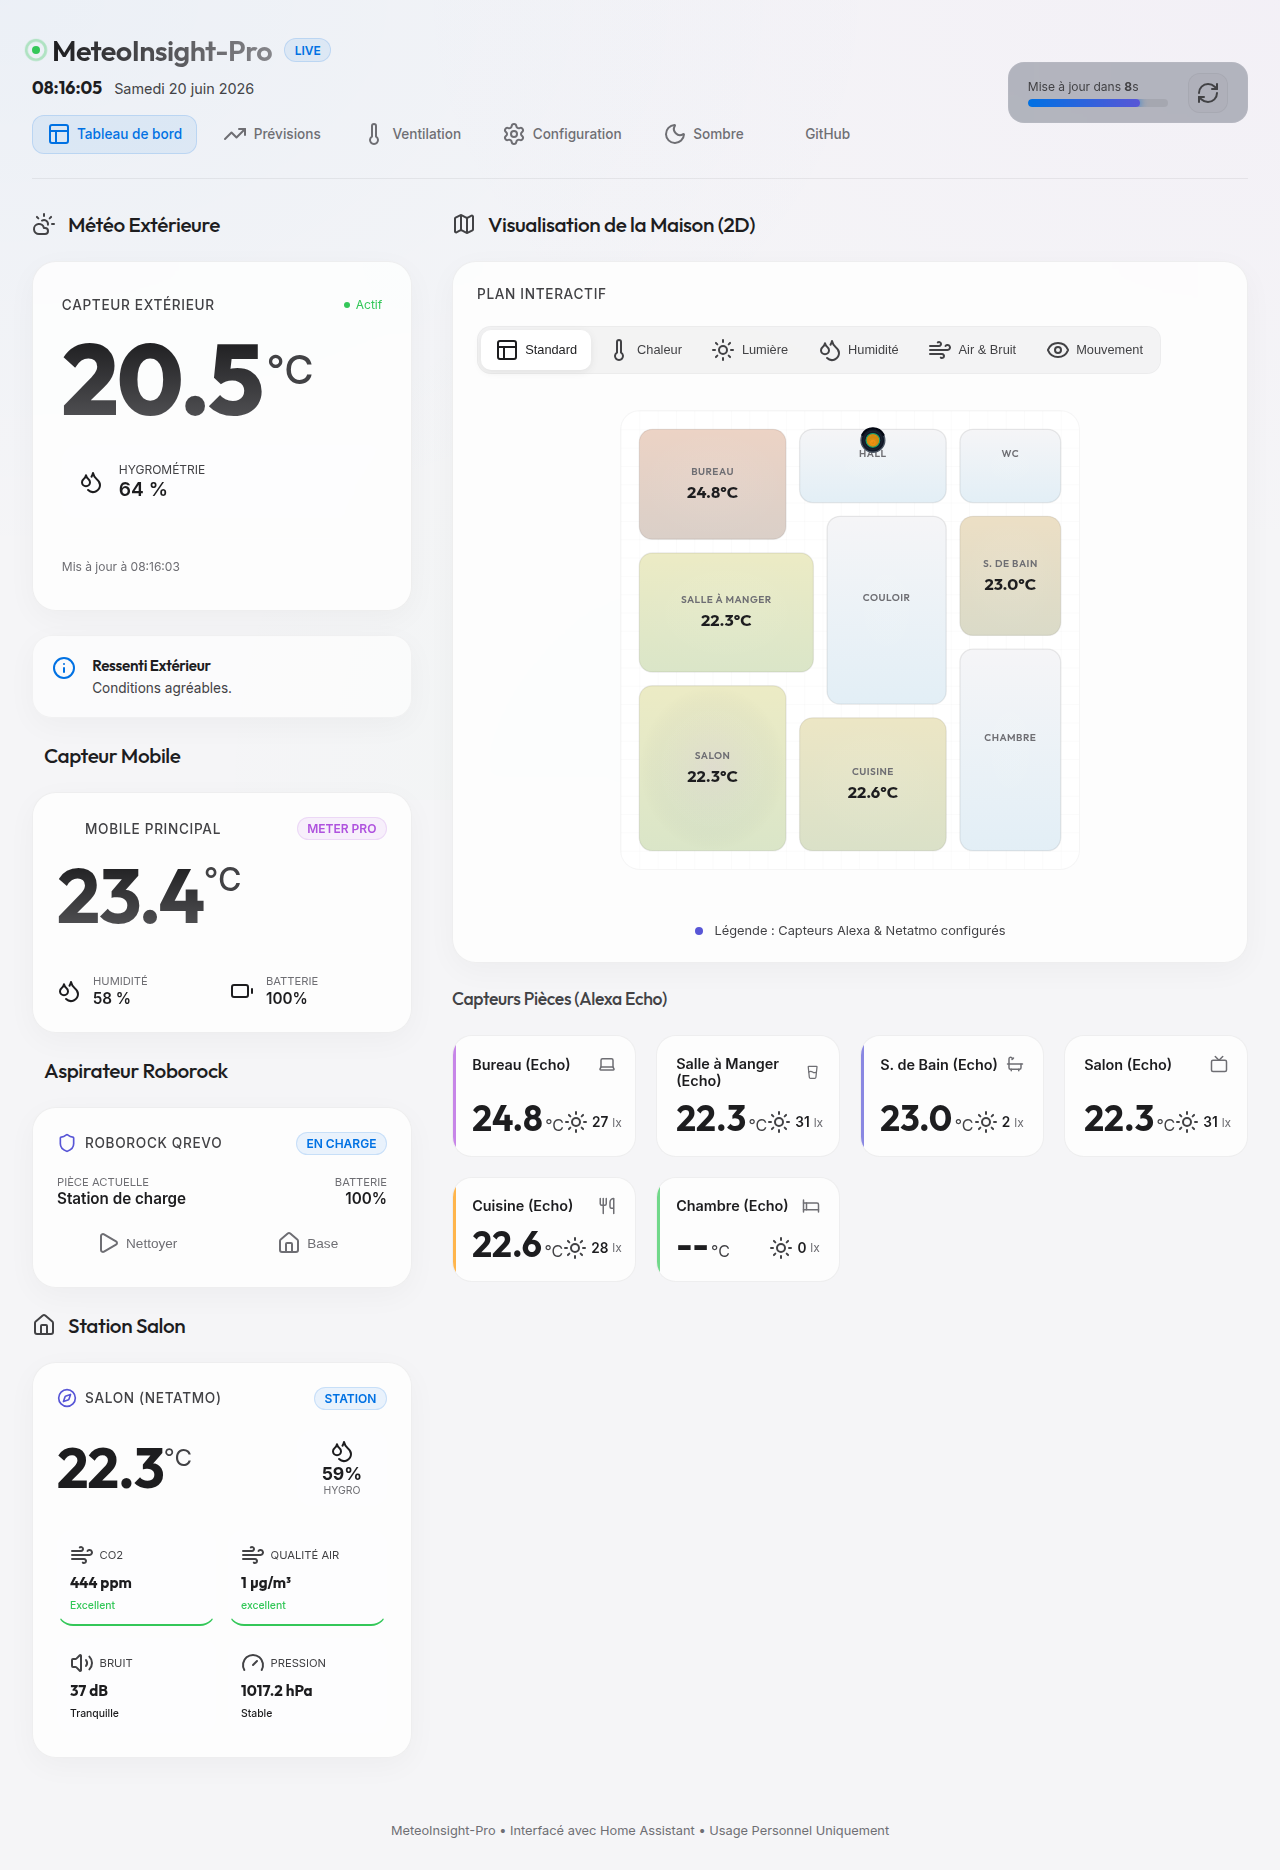
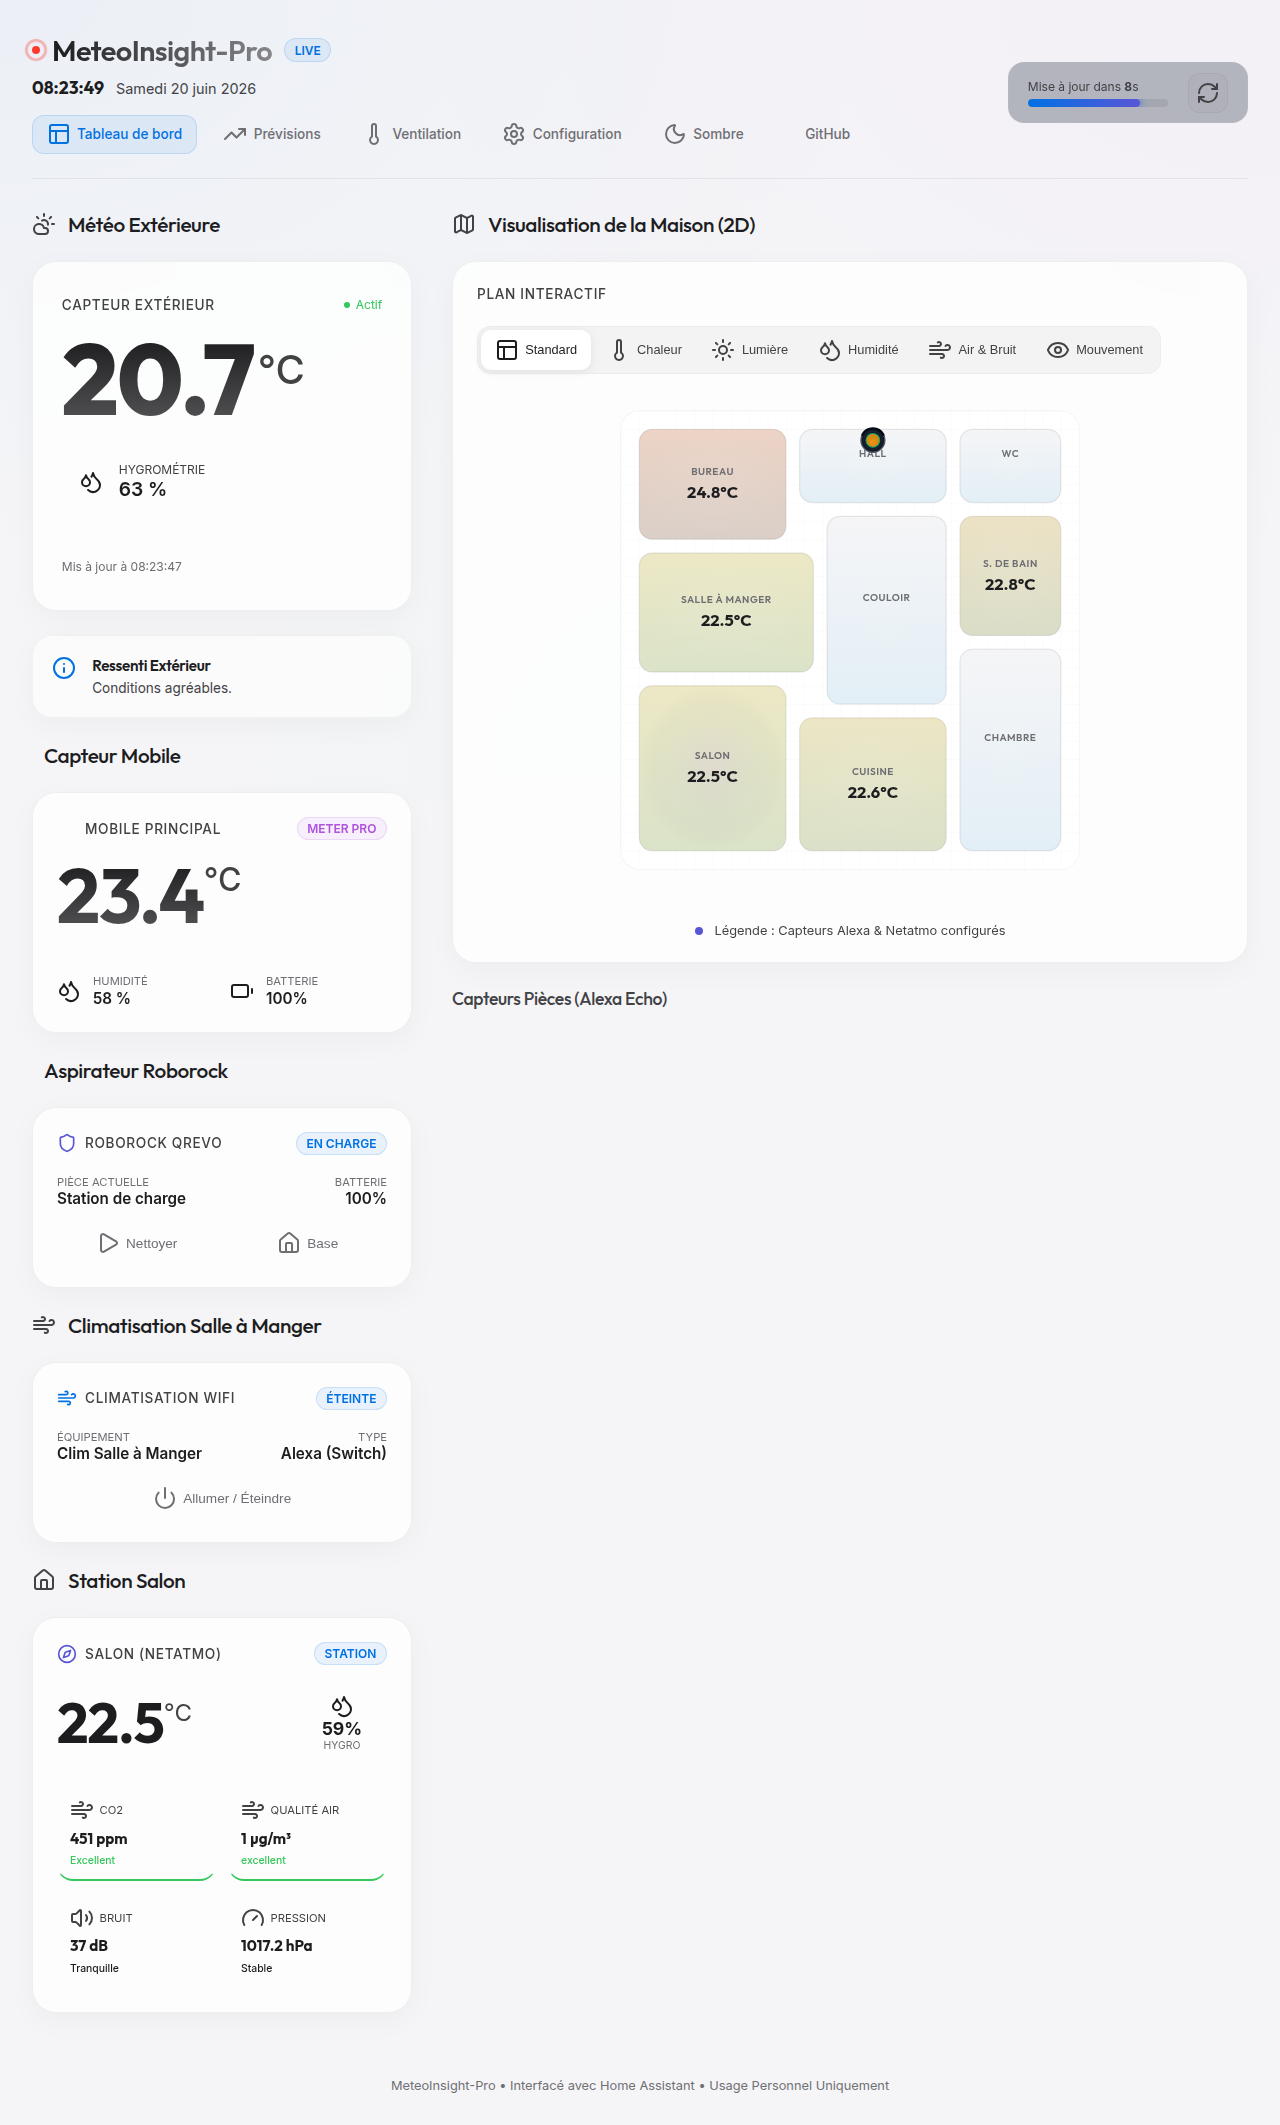
feat: add dining room AC control card, SVG floor plan indicator, and toggle API integration

diff --git a/public/app.js b/public/app.js
@@ -61,7 +61,11 @@ const elements = {
   vacuumRoom: document.getElementById('vacuum-room'),
   vacuumBattery: document.getElementById('vacuum-battery'),
   btnVacuumStart: document.getElementById('btn-vacuum-start'),
-  btnVacuumDock: document.getElementById('btn-vacuum-dock')
+  btnVacuumDock: document.getElementById('btn-vacuum-dock'),
+
+  // AC Card Controls
+  acBadgeState: document.getElementById('ac-badge-state'),
+  btnAcToggle: document.getElementById('btn-ac-toggle')
 };
 
 // Map Alexa Rooms to Lucide Icons
@@ -96,6 +100,9 @@ function init() {
 
   // Set up vacuum controls event listeners
   setupVacuumControls();
+
+  // Set up AC controls event listeners
+  setupACControls();
 }
 
 // Fetch configuration from server to draw SVG floor plan dynamically
@@ -176,6 +183,35 @@ function drawRoomsSVG(rooms) {
         soundG.appendChild(circle);
       }
       roomG.appendChild(soundG);
+    }
+
+    // Salle à manger features like ac indicator
+    if (room.id === 'salle_a_manger') {
+      const acIndicator = document.createElementNS("http://www.w3.org/2000/svg", "g");
+      acIndicator.id = 'svg-ac-indicator';
+      acIndicator.setAttribute('class', 'ac-indicator-container');
+      acIndicator.style.display = 'none'; // hidden by default
+
+      // Small background circle
+      const circ = document.createElementNS("http://www.w3.org/2000/svg", "circle");
+      circ.setAttribute('cx', room.x + room.w - 25);
+      circ.setAttribute('cy', room.y + 25);
+      circ.setAttribute('r', 12);
+      circ.setAttribute('fill', 'rgba(59, 130, 246, 0.15)');
+      circ.setAttribute('stroke', 'rgba(59, 130, 246, 0.4)');
+      circ.setAttribute('stroke-width', '1.5');
+      acIndicator.appendChild(circ);
+
+      // Simple wind symbol (3 lines) in SVG
+      const path = document.createElementNS("http://www.w3.org/2000/svg", "path");
+      path.setAttribute('d', `M ${room.x + room.w - 30} ${room.y + 22} h 8 M ${room.x + room.w - 32} ${room.y + 25} h 12 M ${room.x + room.w - 29} ${room.y + 28} h 7`);
+      path.setAttribute('stroke', 'var(--color-primary)');
+      path.setAttribute('stroke-width', '1.5');
+      path.setAttribute('stroke-linecap', 'round');
+      path.setAttribute('class', 'ac-wind-lines');
+      acIndicator.appendChild(path);
+
+      roomG.appendChild(acIndicator);
     }
 
     const addText = (cls, dy, text) => {
@@ -797,6 +833,9 @@ function updateRobovac(roborock) {
     robovacGroup.insertBefore(titleEl, robovacGroup.firstChild);
   }
   titleEl.textContent = `Roborock Qrevo : ${label}${roomInfo}${batteryInfo}`;
+
+  // 8. CLIMATISATION CARD & SVG INDICATOR
+  updateACBadgeState(data.dining_ac?.state);
 }
 
 // Setup Vacuum button listeners for POST requests to Node server
@@ -839,6 +878,59 @@ function setupVacuumControls() {
         elements.btnVacuumDock.disabled = false;
       }
     });
+  }
+}
+
+// Setup AC button listeners
+function setupACControls() {
+  if (elements.btnAcToggle) {
+    elements.btnAcToggle.addEventListener('click', async () => {
+      elements.btnAcToggle.disabled = true;
+      try {
+        const res = await fetch('api/clim/toggle', {
+          method: 'POST',
+          headers: { 'Content-Type': 'application/json' }
+        });
+        if (!res.ok) throw new Error('Failed to toggle AC');
+        const data = await res.json();
+        // Update state immediately
+        updateACBadgeState(data.state);
+        setTimeout(fetchWeatherData, 1000);
+      } catch (err) {
+        console.error(err);
+        alert('Erreur lors du pilotage de la climatisation');
+      } finally {
+        elements.btnAcToggle.disabled = false;
+      }
+    });
+  }
+}
+
+function updateACBadgeState(state) {
+  if (!elements.acBadgeState) return;
+  const isOn = state === 'on';
+  elements.acBadgeState.textContent = isOn ? 'Allumée' : 'Éteinte';
+  
+  if (isOn) {
+    elements.acBadgeState.style.background = 'rgba(59, 130, 246, 0.15)';
+    elements.acBadgeState.style.borderColor = 'rgba(59, 130, 246, 0.3)';
+    elements.acBadgeState.style.color = 'var(--color-primary)';
+  } else {
+    elements.acBadgeState.style.background = 'rgba(107, 114, 128, 0.15)';
+    elements.acBadgeState.style.borderColor = 'rgba(107, 114, 128, 0.3)';
+    elements.acBadgeState.style.color = '#6b7280';
+  }
+
+  // Update SVG indicator class as well
+  const acSvg = document.getElementById('svg-ac-indicator');
+  if (acSvg) {
+    if (isOn) {
+      acSvg.style.display = 'block';
+      acSvg.classList.add('ac-active');
+    } else {
+      acSvg.style.display = 'none';
+      acSvg.classList.remove('ac-active');
+    }
   }
 }
 

diff --git a/server.js b/server.js
@@ -177,6 +177,9 @@ app.get('/api/weather', async (req, res) => {
         battery: parseState(stateMap[config.entities.roborock_battery]),
         room: stateMap[config.entities.roborock_room] ? stateMap[config.entities.roborock_room].state : null,
         status: stateMap[config.entities.roborock_status] ? stateMap[config.entities.roborock_status].state : null
+      },
+      dining_ac: {
+        state: stateMap[config.entities.dining_ac] ? stateMap[config.entities.dining_ac].state : (memoryCache.dining_ac_state || 'off')
       }
     };
 
@@ -1304,6 +1307,62 @@ app.post('/api/vacuum/action', express.json(), async (req, res) => {
   } catch (error) {
     console.error('Error triggering vacuum action:', error);
     res.status(500).json({ error: error.message || 'Failed to trigger vacuum action' });
+  }
+});
+
+// Endpoint to toggle or trigger climatisation action
+app.post('/api/clim/toggle', express.json(), async (req, res) => {
+  try {
+    const entityId = config.entities.dining_ac || 'switch.clim';
+    
+    // Check if the entity exists in HA
+    const states = await fetchHAStates();
+    const hasHAEntity = states.some(s => s.entity_id === entityId);
+    
+    let newState = 'off';
+    
+    if (hasHAEntity) {
+      // Toggle it in Home Assistant
+      const url = `${config.HA_URL}/api/services/homeassistant/toggle`;
+      const response = await fetch(url, {
+        method: 'POST',
+        headers: {
+          'Authorization': `Bearer ${config.HA_TOKEN}`,
+          'Content-Type': 'application/json'
+        },
+        body: JSON.stringify({
+          entity_id: entityId
+        })
+      });
+      
+      if (!response.ok) {
+        throw new Error(`Home Assistant API returned status code ${response.status}`);
+      }
+      
+      // Fetch the updated state
+      const stateUrl = `${config.HA_URL}/api/states/${entityId}`;
+      const stateRes = await fetch(stateUrl, {
+        headers: {
+          'Authorization': `Bearer ${config.HA_TOKEN}`,
+          'Content-Type': 'application/json'
+        }
+      });
+      if (stateRes.ok) {
+        const stateData = await stateRes.json();
+        newState = stateData.state;
+        memoryCache.dining_ac_state = newState;
+      }
+    } else {
+      // Toggle virtual state in memory cache
+      newState = (memoryCache.dining_ac_state === 'on') ? 'off' : 'on';
+      memoryCache.dining_ac_state = newState;
+    }
+    
+    memoryCache.weatherTime = 0; // force refresh
+    res.json({ success: true, state: newState, isVirtual: !hasHAEntity });
+  } catch (error) {
+    console.error('Error toggling AC:', error);
+    res.status(500).json({ error: error.message || 'Failed to toggle AC' });
   }
 });
 

diff --git a/public/index.html b/public/index.html
@@ -189,6 +189,42 @@
           </div>
         </div>
 
+        <!-- Climatisation Dining Room Control Card -->
+        <div class="section-title">
+          <i data-lucide="wind"></i>
+          <h2>Climatisation Salle à Manger</h2>
+        </div>
+
+        <div class="card ac-card" id="card-ac">
+          <div class="card-bg-gradient" style="background: radial-gradient(circle at 100% 100%, rgba(59, 130, 246, 0.08) 0%, transparent 60%);"></div>
+          <div class="card-header">
+            <div class="header-title-group">
+              <i data-lucide="wind" class="title-icon" style="color: var(--color-primary);"></i>
+              <span class="sensor-source">Climatisation WiFi</span>
+            </div>
+            <span class="badge" id="ac-badge-state" style="background: rgba(107, 114, 128, 0.15); border-color: rgba(107, 114, 128, 0.3); color: #6b7280;">Éteinte</span>
+          </div>
+          
+          <div class="card-body">
+            <div class="ac-status-details" style="display: flex; justify-content: space-between; margin-bottom: 1rem; font-size: 0.85rem;">
+              <div>
+                <span class="sub-label">Équipement</span>
+                <span class="sub-value">Clim Salle à Manger</span>
+              </div>
+              <div style="text-align: right;">
+                <span class="sub-label">Type</span>
+                <span class="sub-value">Alexa (Switch)</span>
+              </div>
+            </div>
+            
+            <div class="ac-actions" style="display: flex; gap: 0.75rem; margin-top: 1rem;">
+              <button class="nav-link" id="btn-ac-toggle" style="flex: 1; justify-content: center; cursor: pointer; background: rgba(59, 130, 246, 0.15); border-color: rgba(59, 130, 246, 0.3); color: var(--color-primary);">
+                <i data-lucide="power"></i> Allumer / Éteindre
+              </button>
+            </div>
+          </div>
+        </div>
+
         <!-- Netatmo Salon Details Card -->
         <div class="section-title">
           <i data-lucide="home"></i>

diff --git a/public/style.css b/public/style.css
@@ -2552,6 +2552,39 @@ body.light-theme .badge-netatmo {
   color: var(--color-primary) !important;
 }
 
+/* Dining AC custom styles */
+.ac-wind-lines {
+  stroke-dasharray: 3, 3;
+}
+
+.ac-active .ac-wind-lines {
+  animation: ac-wind-flow 1s infinite linear;
+}
+
+@keyframes ac-wind-flow {
+  0% {
+    stroke-dashoffset: 6;
+  }
+  100% {
+    stroke-dashoffset: 0;
+  }
+}
+
+.ac-active circle {
+  animation: ac-pulse-glow 2s infinite ease-in-out;
+}
+
+@keyframes ac-pulse-glow {
+  0%, 100% {
+    fill: rgba(59, 130, 246, 0.15);
+    stroke: rgba(59, 130, 246, 0.4);
+  }
+  50% {
+    fill: rgba(59, 130, 246, 0.35);
+    stroke: rgba(59, 130, 246, 0.8);
+  }
+}
+
 
 
 
